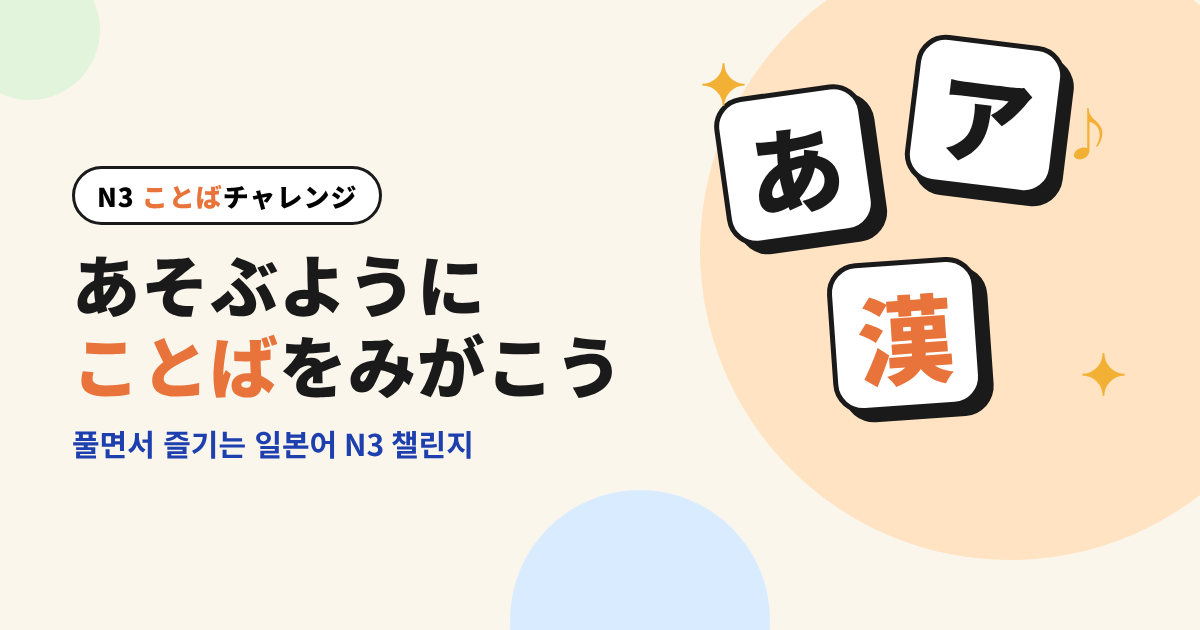
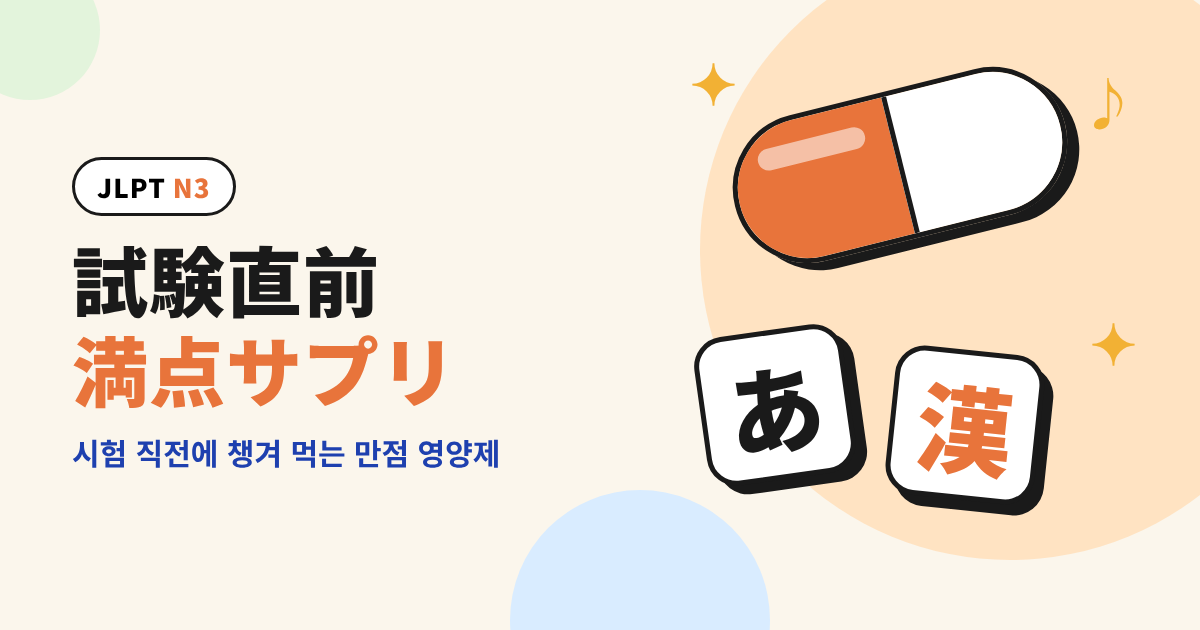
トップを「試験直前 満点サプリ」に変更、カード画像を差し替え
Claude-Session: https://claude.ai/code/session_01EeQMGrUBqdKf6HvBDfCzL5

Changed region(s): [[0.555, 0.0302, 0.9558, 0.8143], [0.0617, 0.3921, 0.5242, 0.754], [0.0617, 0.2413, 0.3392, 0.3619]]

diff --git a/index.html b/index.html
@@ -1,21 +1,21 @@
 <!DOCTYPE html>
 <html lang="ja"><head><meta charset="UTF-8"><meta name="viewport" content="width=device-width, initial-scale=1">
-<meta property="og:title" content="N3 ことばチャレンジ">
-<meta property="og:description" content="도전해 보고 싶은 것을 골라 보세요 — 헷갈리는 탁음·장음 100선, 모의고사 복습 챌린지">
+<meta property="og:title" content="N3 試験直前 満点サプリ">
+<meta property="og:description" content="시험 직전에 챙겨 먹는 만점 영양제 — 헷갈리는 탁음·장음 100선, 모의고사 복습 챌린지">
 <meta property="og:image" content="https://kosuke-jp.github.io/n3/og/index.png">
 <meta property="og:image:width" content="1200">
 <meta property="og:image:height" content="630">
 <meta name="twitter:card" content="summary_large_image">
 <meta property="og:type" content="website">
-<meta name="description" content="도전해 보고 싶은 것을 골라 보세요 — 헷갈리는 탁음·장음 100선, 모의고사 복습 챌린지">
-<title>N3 ことばチャレンジ</title>
+<meta name="description" content="시험 직전에 챙겨 먹는 만점 영양제 — 헷갈리는 탁음·장음 100선, 모의고사 복습 챌린지">
+<title>N3 試験直前 満点サプリ</title>
 <style>
 body{margin:0;font-family:"Hiragino Sans","Noto Sans JP","Malgun Gothic",sans-serif;background:#faf9f6;color:#1a1a1a;display:flex;justify-content:center;padding:40px 16px}
 .w{width:100%;max-width:520px}h1{font-size:24px;margin:0 0 6px}p{color:#1e40af;margin:0 0 24px;font-size:14px}
 a{display:block;background:#fff;border:2px solid #e2e0d8;border-radius:12px;padding:16px 18px;margin-bottom:12px;text-decoration:none;color:#1a1a1a;font-weight:700;font-size:18px}
 a span{display:block;font-weight:500;font-size:13px;color:#7a7a7a;margin-top:4px}
 </style></head><body><div class="w">
-<h1>N3 ことばチャレンジ</h1><p>도전해 보고 싶은 것을 골라 보세요</p>
+<h1>N3 試験直前 満点サプリ</h1><p>도전해 보고 싶은 것을 골라 보세요</p>
 <a href="100sen-1.html">紛らわしい濁音・長音 熟語100選 ①<span>헷갈리는 탁음·장음 한자어 1〜50 · 15분</span></a>
 <a href="kakunin3.html">第3回模試 ふりかえりチャレンジ<span>제3회 모의고사 복습 20문제 · 10분</span></a>
 </div></body></html>

diff --git a/README.md b/README.md
@@ -1,4 +1,4 @@
-# N3 ことばチャレンジ
+# N3 試験直前 満点サプリ
 
 韓国語話者向け JLPT N3 クラスの学習ページ（GitHub Pages で公開）。
 
